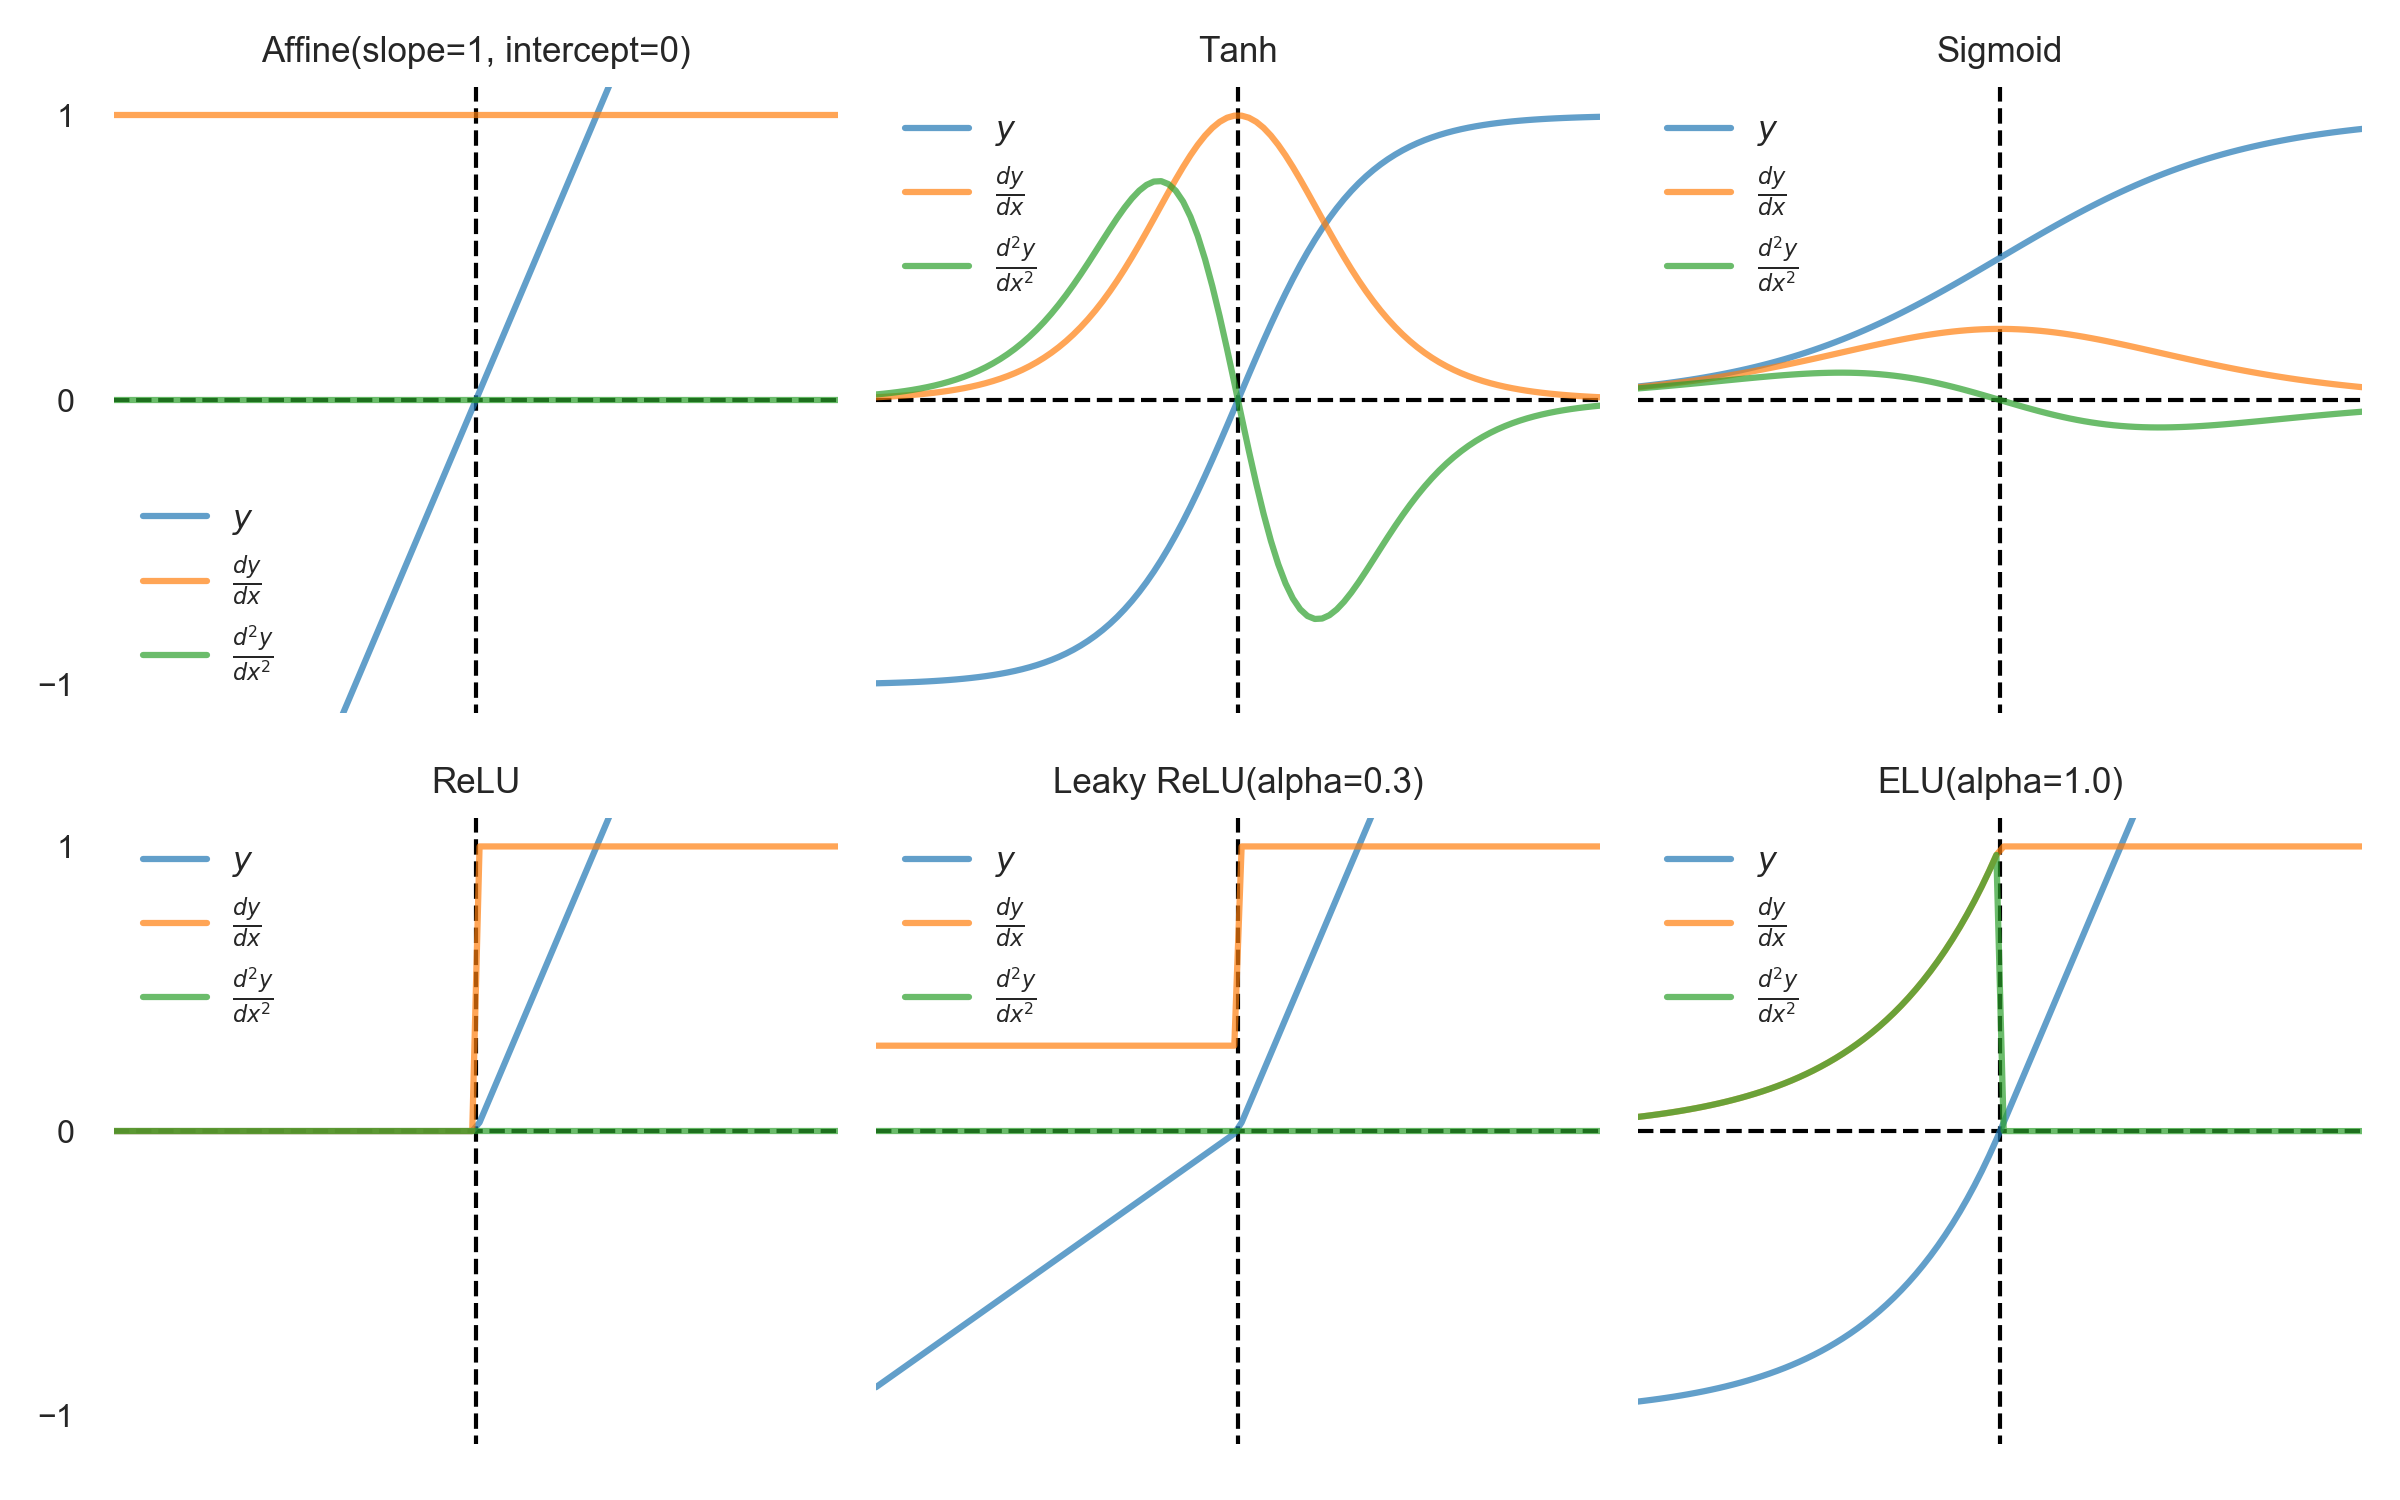
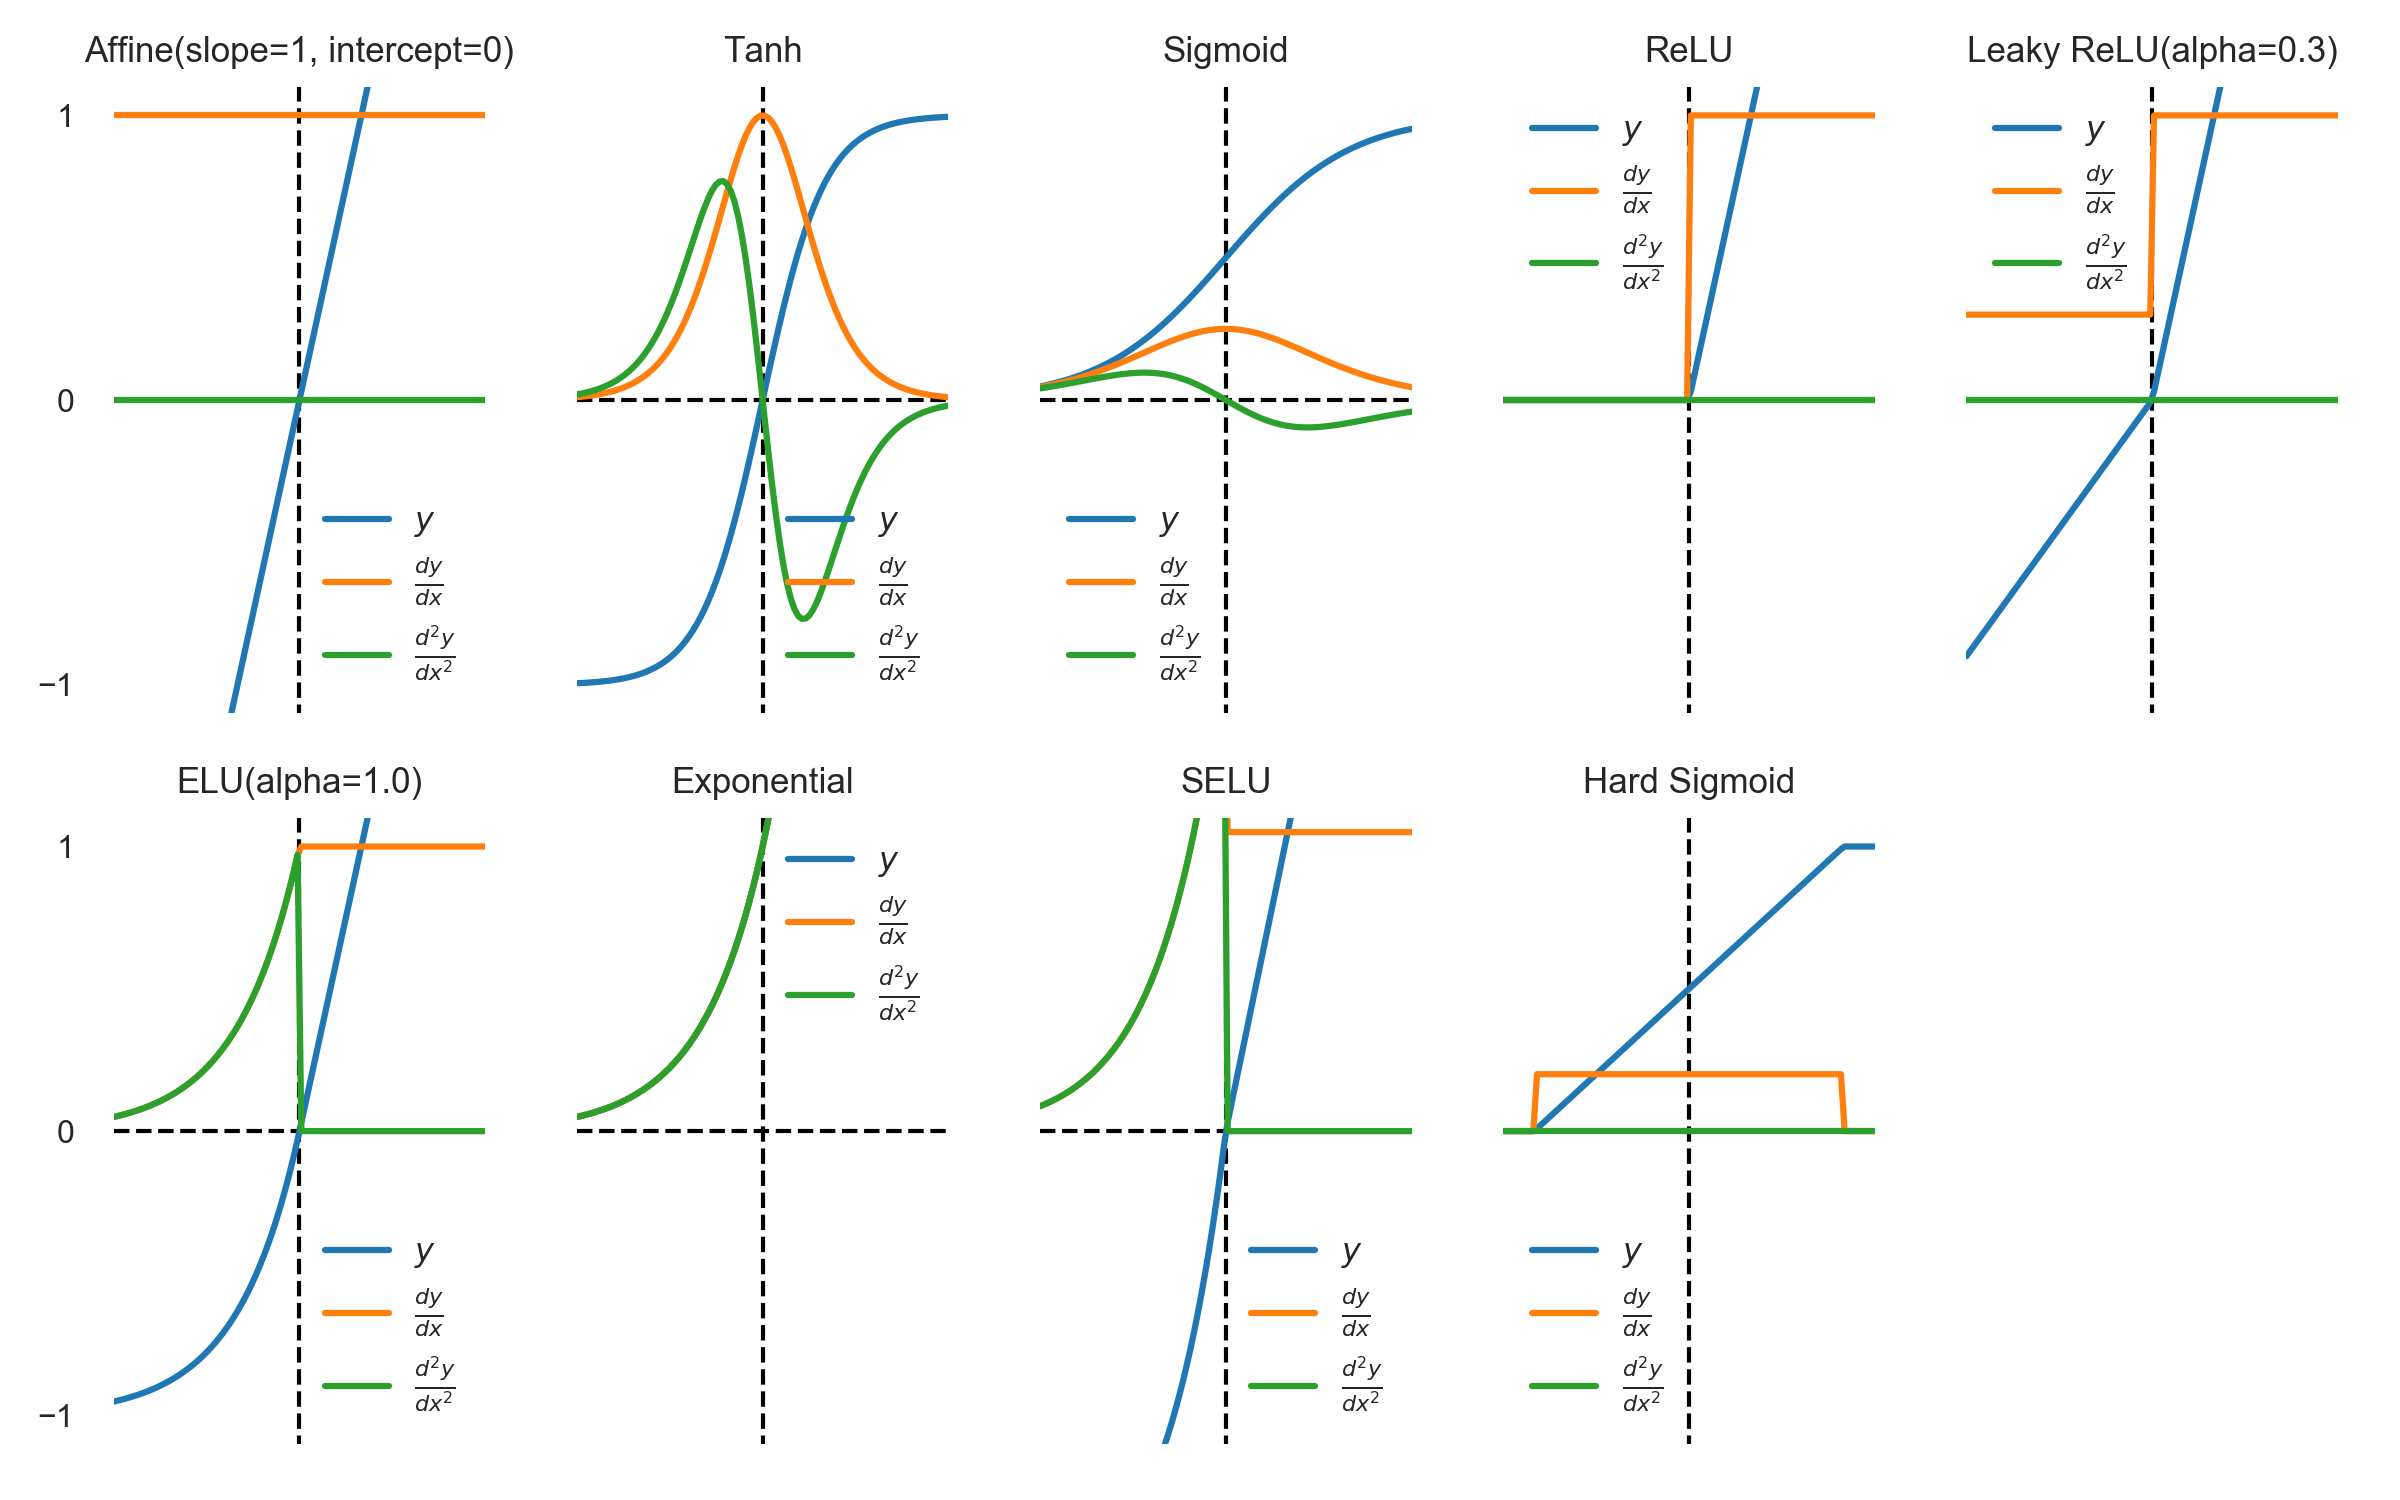
test: add activation plot

diff --git a/neural_nets/activations/plots.py b/neural_nets/activations/plots.py
@@ -20,9 +20,9 @@ def plot_activations():
            ELU(), Exponential(), SELU(), HardSigmoid()]
     for ax, fn in zip(axes.flatten(), fns):
         X = np.linspace(-3, 3, 100).astype(float).reshape(100, 1)
-        ax.plot(X, fn(X), label=r"$y$", alpha=0.7)
-        ax.plot(X, fn.grad(X), label=r"$\frac{dy}{dx}$", alpha=0.7)
-        ax.plot(X, fn.grad2(X), label=r"$\frac{d^2 y}{dx^2}$", alpha=0.7)
+        ax.plot(X, fn(X), label=r"$y$", alpha=1.)
+        ax.plot(X, fn.grad(X), label=r"$\frac{dy}{dx}$", alpha=1.)
+        ax.plot(X, fn.grad2(X), label=r"$\frac{d^2 y}{dx^2}$", alpha=1.)
         ax.hlines(0, -3, 3, lw=1, linestyles="dashed", color="k")
         ax.vlines(0, -1.2, 1.2, lw=1, linestyles="dashed", color="k")
         ax.set_ylim(-1.1, 1.1)
@@ -37,7 +37,7 @@ def plot_activations():
 
     fig.set_size_inches(8, 5)
     plt.tight_layout()
-    plt.savefig("plot.png", dpi=300)
+    plt.savefig("img/plot.png", dpi=300)
     plt.close("all")
 
 
